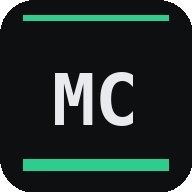
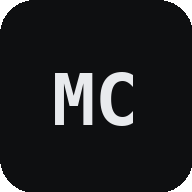
Add files via upload

Changed region(s): [[0.0938, 0.8125, 0.9062, 0.9062], [0.125, 0.0625, 0.875, 0.125]]

diff --git a/mc-sw.js b/mc-sw.js
@@ -1,4 +1,4 @@
-const CACHE = 'mc-v27-project-id-linking';
+const CACHE = 'mc-v28-icon-refresh';
 const ASSETS = ['./index.html', './mc-manifest.json', './do-app.js', './ascent-app.js'];
 
 self.addEventListener('install', e => {
